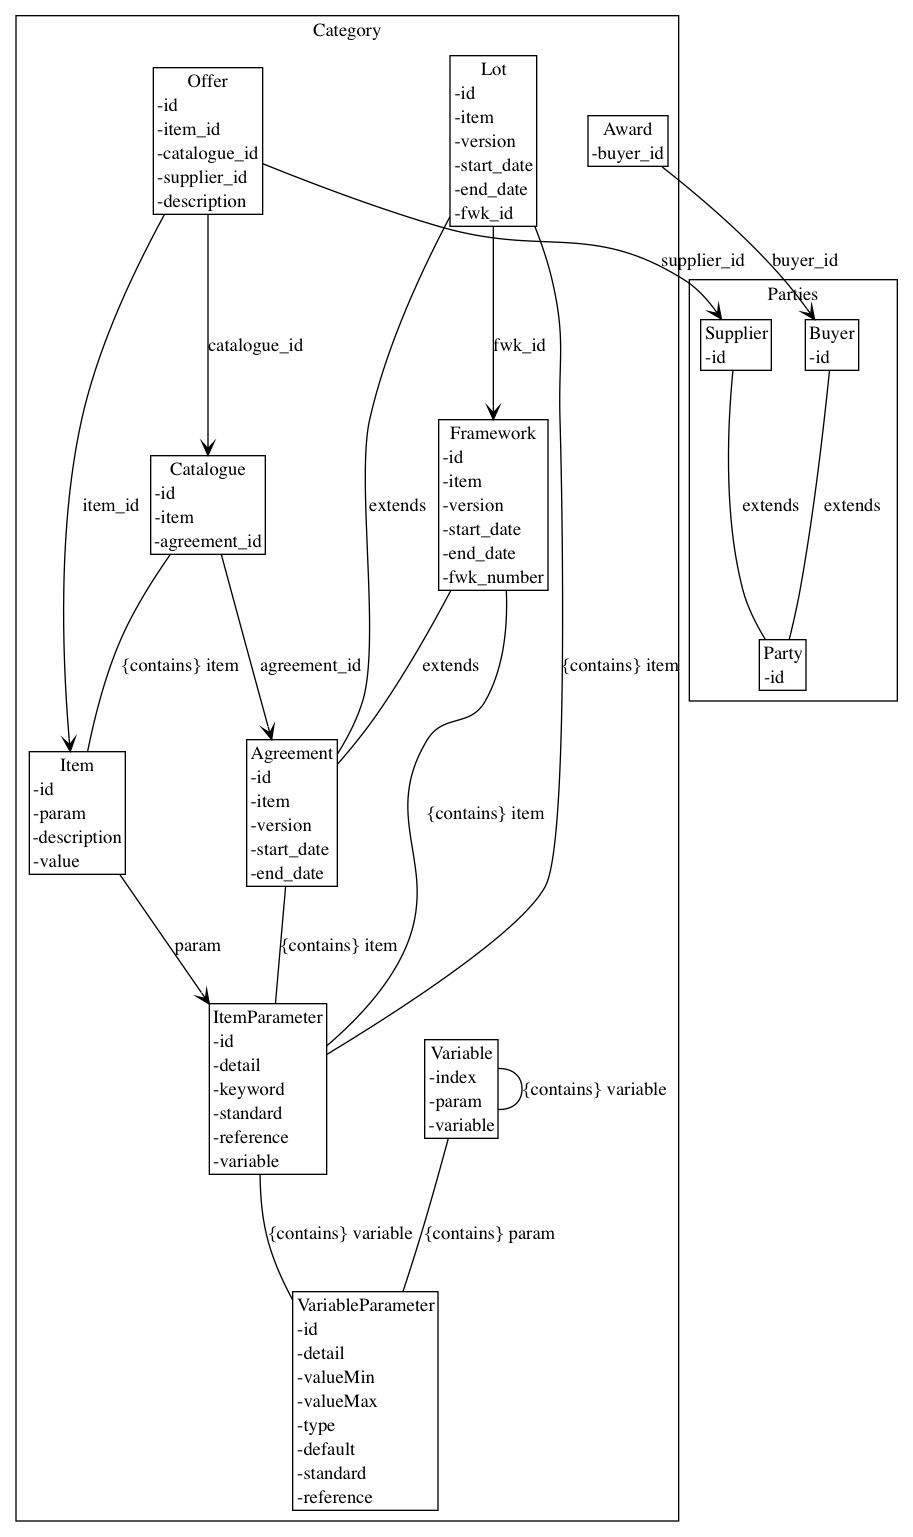
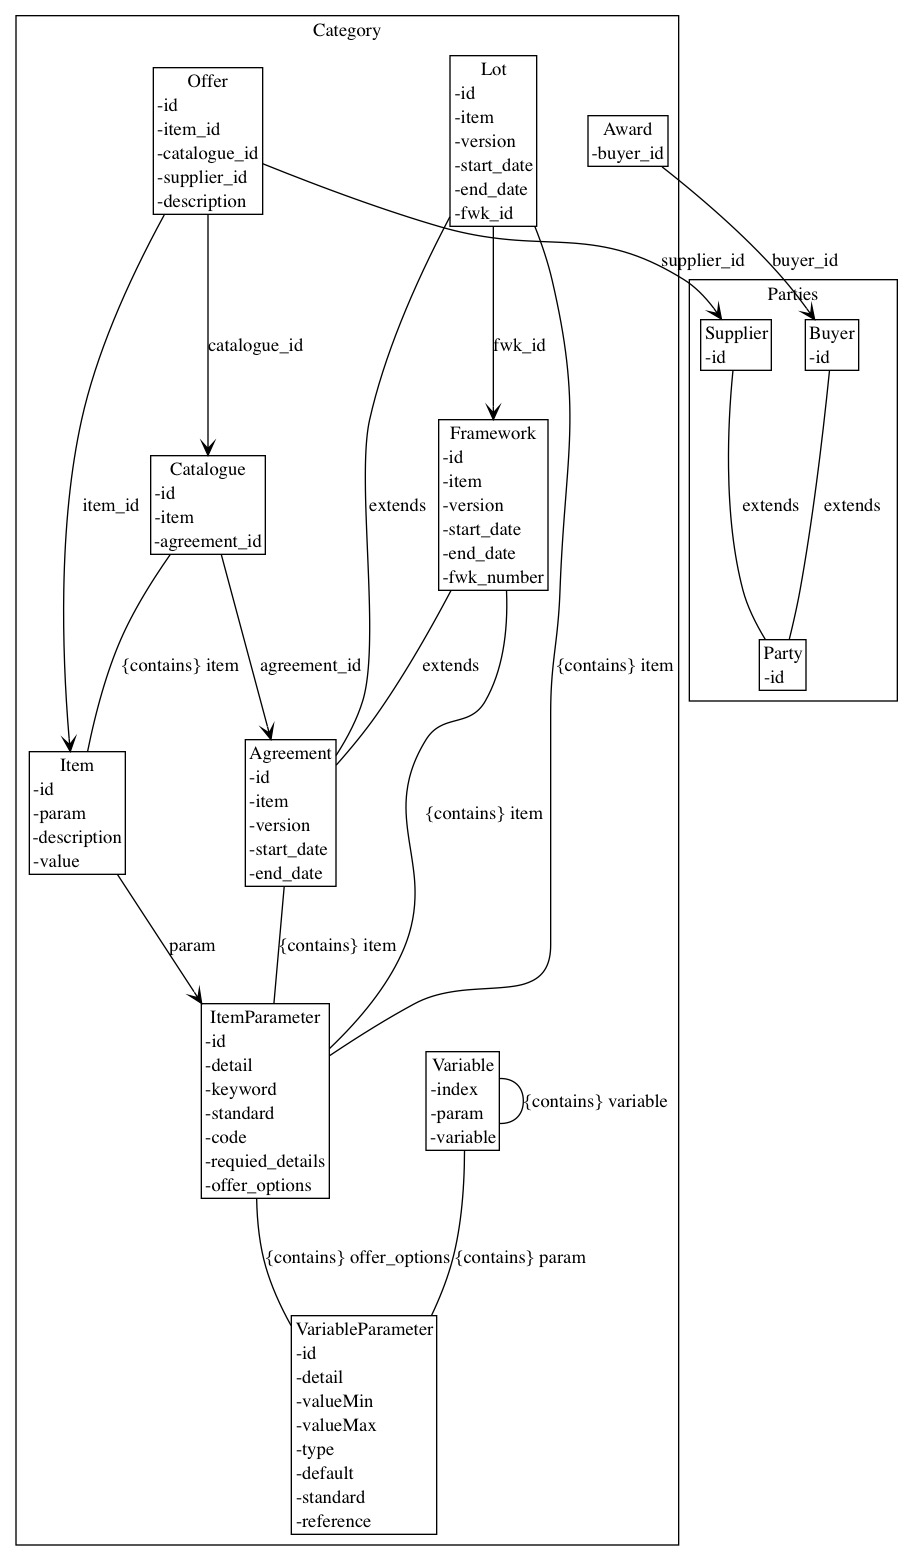
Change agreement

diff --git a/agreement-design/model/fm.rb b/agreement-design/model/fm.rb
@@ -4,12 +4,12 @@ Category.new :FM do
 
   FM_ID= "FM"
   framework do
-    id FM
+    id FM_ID
     item do
       id "service"
       detail "FM supports a number of services"
       standard "which standard does this comply with?"
-      reference "which bits of the standard?"
+      code "which bits of the standard?"
 
     end
   end

diff --git a/agreement-design/gen/doc/metamodel.md b/agreement-design/gen/doc/metamodel.md
@@ -20,8 +20,9 @@
 |detail|String|1||
 |keyword|String|*||
 |standard|String|1|which standard defines the item type, such as UBL2.1|
-|reference|String|1|reference within standard, such as UBL2.1|
-|variable|Category::VariableParameter|*|define the variables for the item|
+|code|String|*|codes within standard, such as UBL2.1|
+|requied_details|Category::VariableParameter|*|define the fixed variables for the item|
+|offer_options|Category::VariableParameter|*|define the optional offer variables for offers on the item|
 ## Agreement
   General definition of Commercial Agreements
 

diff --git a/agreement-design/gen/doc/frameworks.md b/agreement-design/gen/doc/frameworks.md
@@ -1,1 +1,7 @@
-### framework  
+### framework FM 
+   - id FM
+#### item service 
+     - id service
+     - detail FM supports a number of services
+     - standard which standard does this comply with?
+     - code.1 which bits of the standard?
